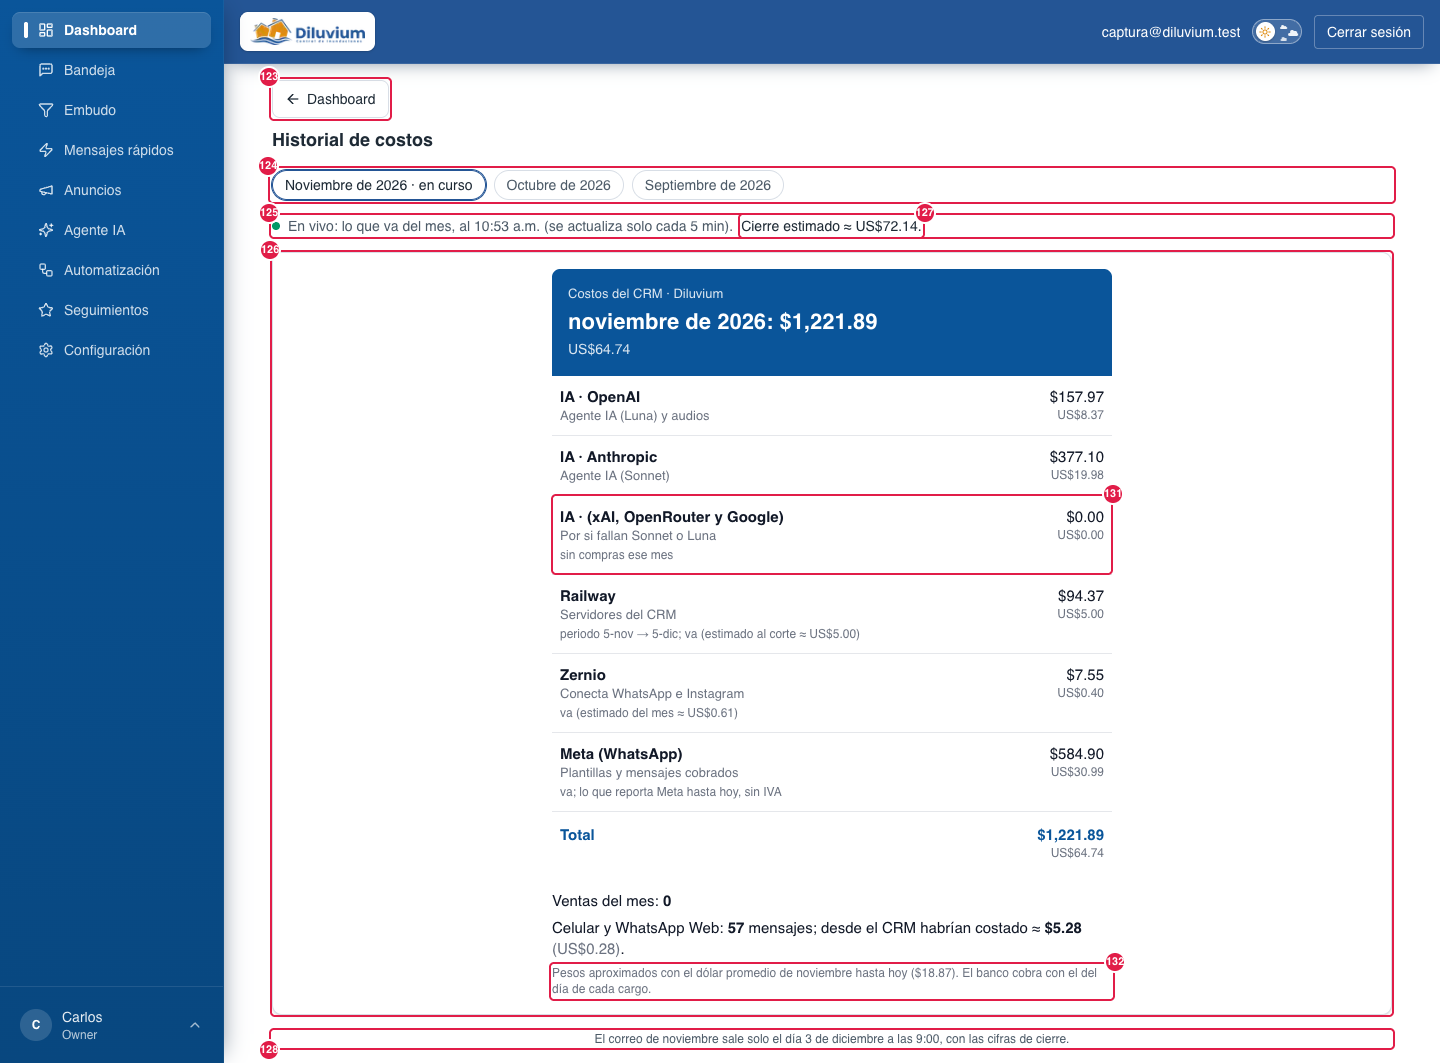
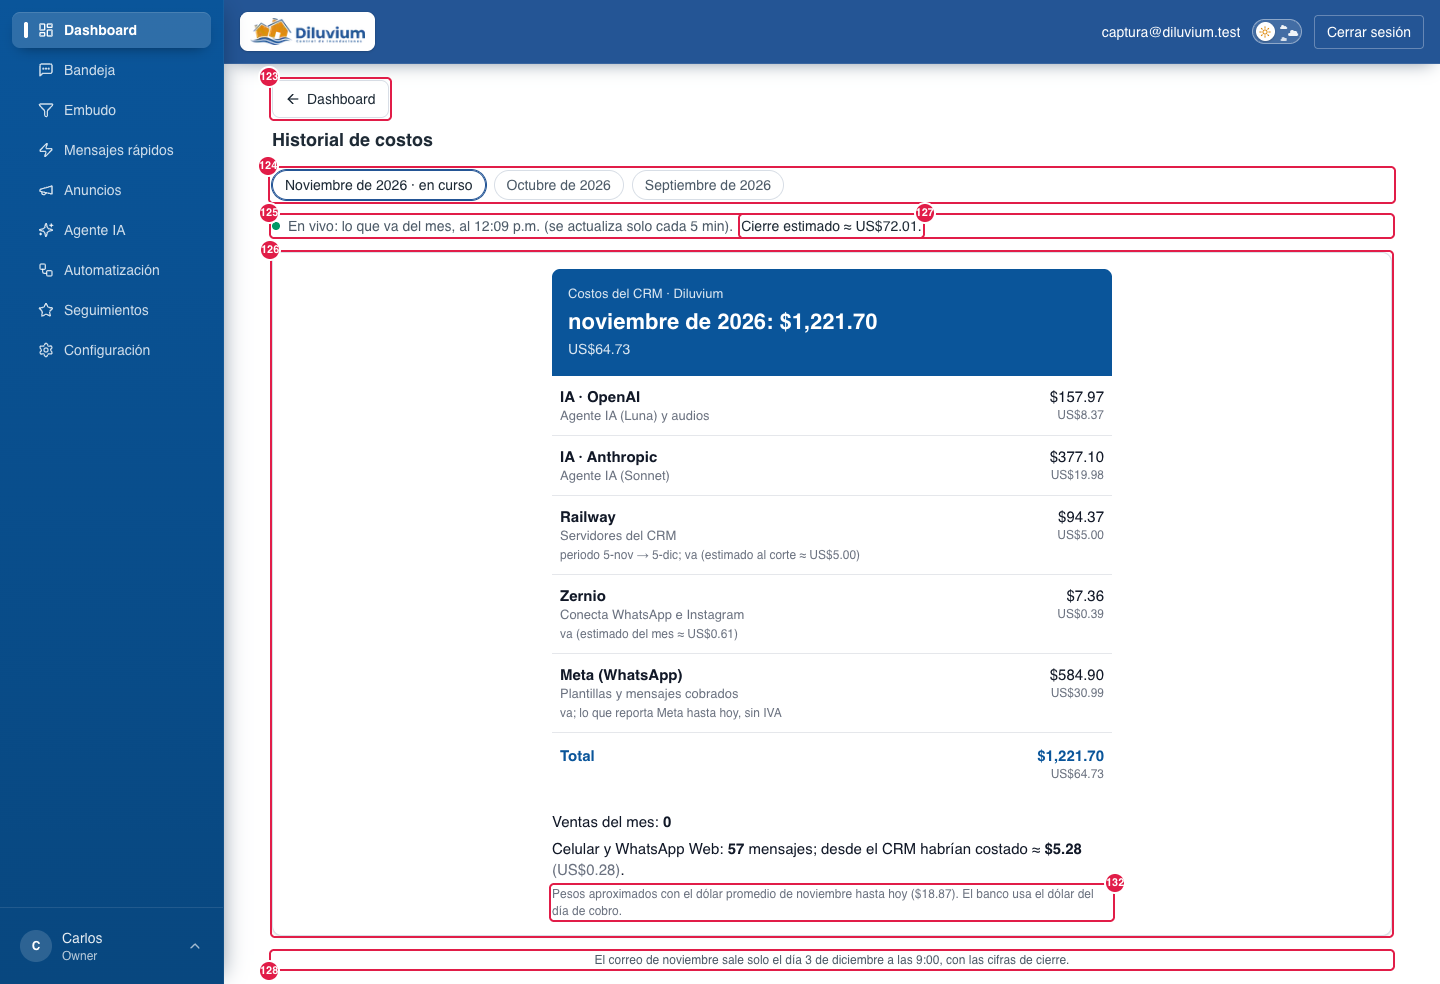
fix(costos): renglón de los modelos de reserva solo con nombre y monto, solo el mes de la compra; frase del dólar
Ajustes del dueño (27-nov-2026) antes de main:
- «IA · (xAI, OpenRouter y Google)» sin texto debajo ni nota, y solo sale el mes en que se compró crédito (en los
  demás meses no aparece: lo que se usa de esos créditos ya se pagó).
- Nota del dólar: «Pesos aproximados con el dólar promedio de octubre ($18.40). El banco usa el dólar del día de
  cobro.» (en el mes en curso, «promedio de … hasta hoy»).
- El correo ya no pinta la línea de «para qué» cuando viene vacía.
Mapa 3.1.4 (131, 132), capturas 01i rehecha y 01k nueva (mes cerrado con compra, datos de ejemplo); docs/costos.md.
3,081 pruebas OK (con base y Redis), typecheck y lint limpios.

diff --git a/lib/costos/mes.ts b/lib/costos/mes.ts
@@ -87,29 +87,28 @@ export const IA_PARA_QUE: Record<string, string> = {
 };
 
 // Modelos de reserva (decisión del dueño 27-nov-2026): xAI, OpenRouter y Google se pagan por adelantado (recargas
-// registradas en el Dashboard, ai_credit_topups) y casi no se usan. Van en UN renglón con lo que se COMPRÓ de crédito
-// en el mes; lo que después se use de esos créditos ya no vuelve a sumar (ya se pagó). Anthropic y OpenAI siguen por
-// lo que se usó cada mes.
+// registradas en el Dashboard, ai_credit_topups) y casi no se usan. Van en UN renglón, solo con su nombre y su monto
+// (sin texto debajo ni nota), con lo que se COMPRÓ de crédito en el mes, y solo salen el mes en que se compró: lo que
+// después se use de esos créditos ya no vuelve a sumar (ya se pagó). Anthropic y OpenAI siguen por lo que se usó.
 export const IA_RESERVA = ["xai", "openrouter", "google"];
 export type CompraIa = { provider: string; amountUsd: number; toppedUpOn: string };
-export const RESERVA_RENGLON = { servicio: "IA · (xAI, OpenRouter y Google)", paraQue: "Por si fallan Sonnet o Luna" };
-// Por debajo de esto, lo usado de los créditos de reserva se considera «casi sin uso».
-const RESERVA_CASI_SIN_USO_USD = 1;
+export const RESERVA_SERVICIO = "IA · (xAI, OpenRouter y Google)";
 
-// PURO: el renglón de los modelos de reserva. `usoUsd` = lo usado de esos créditos desde que empezó el mes (solo para
-// la nota; no suma).
-export function renglonReserva(compras: readonly CompraIa[], mes: Mes, usoUsd: number): Renglon {
+// PURO: lo que se compró de crédito de los modelos de reserva en el mes.
+export function comprasReservaUsd(compras: readonly CompraIa[], mes: Mes): number {
   const delMes = compras.filter((c) => IA_RESERVA.includes(c.provider) && c.toppedUpOn >= mes.desde && c.toppedUpOn <= mes.hasta);
-  const usd = round2(delMes.reduce((s, c) => s + c.amountUsd, 0));
-  if (usd === 0) return { ...RESERVA_RENGLON, usd: 0, nota: "sin compras ese mes" };
-  const dias = [...new Set(delMes.map((c) => c.toppedUpOn))].sort().map((d) => shortDate(new Date(`${d}T12:00:00Z`)));
-  const fechas = dias.length === 1 ? dias[0] : `${dias.slice(0, -1).join(", ")} y ${dias[dias.length - 1]}`;
-  return { ...RESERVA_RENGLON, usd, nota: `créditos comprados el ${fechas}${usoUsd < RESERVA_CASI_SIN_USO_USD ? "; casi sin uso" : ""}` };
+  return round2(delMes.reduce((s, c) => s + c.amountUsd, 0));
+}
+
+// PURO: el renglón de los modelos de reserva; null = ese mes no se compró crédito (no sale).
+export function renglonReserva(compras: readonly CompraIa[], mes: Mes): Renglon | null {
+  const usd = comprasReservaUsd(compras, mes);
+  return usd === 0 ? null : { servicio: RESERVA_SERVICIO, paraQue: "", usd, nota: null };
 }
 
 // Por proveedor: lo que COBRÓ según su reporte (ai_provider_billing, incluye pruebas). Sin lectura del
 // proveedor se usa lo que registró el CRM y la nota lo dice. Los modelos de reserva van en un solo renglón con lo
-// que se compró en el mes (renglonReserva).
+// que se compró en el mes, solo si se compró (renglonReserva).
 export function renglonesIa(input: {
   billing: readonly BillingSnapshot[];
   crmDays: readonly DaySpend[];
@@ -118,16 +117,6 @@ export function renglonesIa(input: {
 }): { renglones: Renglon[]; avisos: string[] } {
   const { mes } = input;
   const snaps = new Map(input.billing.filter((b) => b.fetchedAt).map((b) => [b.provider, b]));
-  // Lo usado de los créditos de reserva desde que empezó el mes (solo para la nota «casi sin uso»).
-  let usoReserva = 0;
-  for (const p of IA_RESERVA) {
-    const snap = snaps.get(p);
-    if (snap) {
-      for (const [day, v] of Object.entries(snap.days)) if (day >= mes.desde) usoReserva += v.todo;
-    } else {
-      for (const d of input.crmDays) if (d.provider === p && d.day >= mes.desde) usoReserva += d.usd;
-    }
-  }
   const otros = [...new Set([...snaps.keys(), ...input.crmDays.map((d) => d.provider)])]
     .filter((p) => !IA_FIJOS.includes(p) && !IA_RESERVA.includes(p))
     .sort();
@@ -157,7 +146,8 @@ export function renglonesIa(input: {
   for (const p of IA_RESERVA) {
     if (input.billing.find((b) => b.provider === p)?.lastError) avisos.push(`${providerLabel(p)}: la última lectura del cobro falló; revisa el Dashboard.`);
   }
-  renglones.push(renglonReserva(input.compras, mes, usoReserva));
+  const reserva = renglonReserva(input.compras, mes);
+  if (reserva) renglones.push(reserva);
   return { renglones, avisos };
 }
 

diff --git a/lib/costos/historial.test.ts b/lib/costos/historial.test.ts
@@ -28,7 +28,7 @@ describe("renglonesMesCerrado", () => {
     const iaSep = [
       { servicio: "IA · Anthropic", paraQue: "Agente IA (Sonnet)", usd: 9.18, nota: null },
       { servicio: "IA · OpenAI", paraQue: "Agente IA (Luna) y audios", usd: 0.85, nota: null },
-      { servicio: "IA · (xAI, OpenRouter y Google)", paraQue: "Por si fallan Sonnet o Luna", usd: 15.67, nota: "créditos comprados el 25-sep; casi sin uso" },
+      { servicio: "IA · (xAI, OpenRouter y Google)", paraQue: "", usd: 15.67, nota: null },
     ];
     const r = renglonesMesCerrado({ month: "2026-09", iaUsd: 25.7, metaUsd: 0, railwayUsd: 0, zernioUsd: 0 }, iaSep);
     expect(r.ia.map((x) => x.usd)).toEqual([9.18, 0.85, 15.67]);
@@ -79,12 +79,11 @@ describe("renglonesMesEnCurso", () => {
 
   const NOV = mesDe("2026-11");
 
-  it("lo que va de cada servicio (Railway nunca menos del plan); la IA sin proveedores en cero y la reserva por compras", () => {
+  it("lo que va de cada servicio (Railway nunca menos del plan); la IA sin proveedores en cero ni reserva sin compras", () => {
     const r = renglonesMesEnCurso({ spend, railway, zernio, meta, compras: [], mes: NOV });
     expect(r.ia.map((x) => [x.servicio, x.usd])).toEqual([
       ["IA · Anthropic", 15.2],
       ["IA · OpenAI", 6.3],
-      ["IA · (xAI, OpenRouter y Google)", 0],
     ]);
     expect(r.railway.usd).toBe(5);
     expect(r.railway.nota).toMatch(/^periodo 5-nov → 5-dic; va \(estimado al corte ≈ US\$/);
@@ -93,7 +92,7 @@ describe("renglonesMesEnCurso", () => {
   });
   it("sin lectura de un servicio: sin dato (no cuenta como cero)", () => {
     const r = renglonesMesEnCurso({ spend: null, railway: null, zernio: null, meta: null, compras: [], mes: NOV });
-    expect(r.ia).toEqual([{ servicio: "IA · (xAI, OpenRouter y Google)", paraQue: "Por si fallan Sonnet o Luna", usd: 0, nota: "sin compras ese mes" }]);
+    expect(r.ia).toEqual([]);
     expect([r.railway.usd, r.zernio.usd, r.meta.usd]).toEqual([null, null, null]);
   });
   it("una compra de crédito de reserva en el mes suma aunque se haya usado poco; lo usado no suma", () => {
@@ -102,7 +101,7 @@ describe("renglonesMesEnCurso", () => {
     expect(r.ia.map((x) => [x.servicio, x.usd, x.nota])).toEqual([
       ["IA · Anthropic", 15.2, null],
       ["IA · OpenAI", 6.3, null],
-      ["IA · (xAI, OpenRouter y Google)", 5, "créditos comprados el 10-nov; casi sin uso"],
+      ["IA · (xAI, OpenRouter y Google)", 5, null],
     ]);
   });
 });

diff --git a/lib/costos/mes.test.ts b/lib/costos/mes.test.ts
@@ -40,7 +40,6 @@ describe("renglonesIa", () => {
       // El CRM calculó de más en Anthropic: no se usa porque hay reporte del proveedor.
       crmDays: [
         { day: "2026-10-01", provider: "anthropic", usd: 5 },
-        // Uso de reserva: 0.001 + 0.5 + 0.25 < US$1 → «casi sin uso».
         { day: "2026-10-02", provider: "google", usd: 0.25 },
       ],
       compras: [
@@ -54,26 +53,15 @@ describe("renglonesIa", () => {
     expect(renglones).toEqual([
       { servicio: "IA · Anthropic", paraQue: "Agente IA (Sonnet)", usd: 3.25, nota: null },
       { servicio: "IA · OpenAI", paraQue: "Agente IA (Luna) y audios", usd: 0, nota: null },
-      { servicio: "IA · (xAI, OpenRouter y Google)", paraQue: "Por si fallan Sonnet o Luna", usd: 10.67, nota: "créditos comprados el 25-oct; casi sin uso" },
+      { servicio: "IA · (xAI, OpenRouter y Google)", paraQue: "", usd: 10.67, nota: null },
     ]);
     expect(avisos).toEqual([]);
   });
 
-  it("modelos de reserva: sin compras en el mes sale en 0; varias fechas; sin «casi sin uso» si se usó US$1 o más", () => {
-    const base = { mes: OCT, billing: [], crmDays: [] };
-    expect(renglonesIa({ ...base, compras: [] }).renglones.at(-1)).toEqual({
-      servicio: "IA · (xAI, OpenRouter y Google)",
-      paraQue: "Por si fallan Sonnet o Luna",
-      usd: 0,
-      nota: "sin compras ese mes",
-    });
-    const compras = [
-      { provider: "openrouter", amountUsd: 5, toppedUpOn: "2026-10-03" },
-      { provider: "xai", amountUsd: 5, toppedUpOn: "2026-10-20" },
-      { provider: "google", amountUsd: 2, toppedUpOn: "2026-10-20" },
-    ];
-    const usado = renglonesIa({ ...base, billing: [snap("openrouter", { "2026-11-02": { todo: 1.2 } })], compras }).renglones.at(-1);
-    expect(usado).toMatchObject({ usd: 12, nota: "créditos comprados el 3-oct y 20-oct" });
+  it("modelos de reserva: el mes sin compras de crédito no sale el renglón (aunque se hayan usado)", () => {
+    const billing = [snap("openrouter", { "2026-10-12": { todo: 1.2 } })];
+    const sinCompras = renglonesIa({ mes: OCT, billing, crmDays: [], compras: [{ provider: "xai", amountUsd: 5, toppedUpOn: "2026-09-25" }] });
+    expect(sinCompras.renglones.map((r) => r.servicio)).toEqual(["IA · Anthropic", "IA · OpenAI"]);
   });
 
   it("avisa si la última lectura es de antes del cierre o falló", () => {

diff --git a/lib/costos/correo.ts b/lib/costos/correo.ts
@@ -28,7 +28,7 @@ function montos(usd: number | null, mxn: number | null): { principal: string; se
 export function notaTipoCambio(r: Pick<ReporteCostos, "tipoCambio" | "mes" | "enCurso">): string | null {
   if (!r.tipoCambio) return null;
   const mes = r.mes.nombre.replace(/ de \d{4}$/, "");
-  return `Pesos aproximados con el dólar promedio de ${mes}${r.enCurso ? " hasta hoy" : ""} (${pesos(r.tipoCambio.mxnPorUsd)}). El banco cobra con el del día de cada cargo.`;
+  return `Pesos aproximados con el dólar promedio de ${mes}${r.enCurso ? " hasta hoy" : ""} (${pesos(r.tipoCambio.mxnPorUsd)}). El banco usa el dólar del día de cobro.`;
 }
 
 export function asuntoCorreo(r: ReporteCostos): string {
@@ -42,7 +42,7 @@ export function htmlCorreo(r: ReporteCostos): string {
     .map((x) => {
       const m = montos(x.usd, x.mxn);
       return `<tr>
-  <td style="${celda}"><div style="font-weight:bold;color:#111827;">${esc(x.servicio)}</div><div style="color:${GRIS};font-size:13px;">${esc(x.paraQue)}</div>${
+  <td style="${celda}"><div style="font-weight:bold;color:#111827;">${esc(x.servicio)}</div>${x.paraQue ? `<div style="color:${GRIS};font-size:13px;">${esc(x.paraQue)}</div>` : ""}${
     x.nota ? `<div style="color:${GRIS};font-size:12px;margin-top:2px;">${esc(x.nota)}</div>` : ""
   }</td>
   <td style="${celda}text-align:right;white-space:nowrap;"><div style="color:${x.usd === null ? GRIS : "#111827"};">${m.principal}</div>${
@@ -78,7 +78,7 @@ export function htmlCorreo(r: ReporteCostos): string {
     }.${c.cobradosMeta > 0 ? ` <span style="color:${NARANJA};font-weight:bold;">Meta cobró ${c.cobradosMeta.toLocaleString("es-MX")} de ellos.</span>` : ""}</p>`;
   }
 
-  // Texto del dueño (27-nov-2026): los pesos son aproximados porque el banco cobra con el dólar del día de cada cargo.
+  // Texto del dueño (27-nov-2026): los pesos son aproximados porque el banco usa el dólar del día de cada cobro.
   const lineaTc = notaTipoCambio(r);
   const tipoCambio = lineaTc ? `<p style="margin:6px 0 0;color:${GRIS};font-size:12px;">${esc(lineaTc)}</p>` : "";
 

diff --git a/lib/costos/correo.test.ts b/lib/costos/correo.test.ts
@@ -37,7 +37,7 @@ describe("correo de costos", () => {
     expect(html).toContain("(sin Railway)");
     expect(html).toContain("Ventas del mes: <b>38</b>");
     expect(html).toContain("Costo del CRM por venta: <b>$600.98</b>");
-    expect(html).toContain("Pesos aproximados con el dólar promedio de octubre ($18.50). El banco cobra con el del día de cada cargo.");
+    expect(html).toContain("Pesos aproximados con el dólar promedio de octubre ($18.50). El banco usa el dólar del día de cobro.");
     expect(html).toContain("Diluvium &lt;MX&gt;");
     expect(html).not.toContain("Diluvium <MX>");
     expect(html).not.toContain("Correo automático del CRM");
@@ -73,10 +73,15 @@ describe("correo de costos", () => {
   });
 
   it("nota del tipo de cambio (texto del dueño): mes cerrado, mes en curso «hasta hoy» y sin tipo de cambio", () => {
-    expect(notaTipoCambio(base)).toBe("Pesos aproximados con el dólar promedio de octubre ($18.50). El banco cobra con el del día de cada cargo.");
+    expect(notaTipoCambio(base)).toBe("Pesos aproximados con el dólar promedio de octubre ($18.50). El banco usa el dólar del día de cobro.");
     expect(notaTipoCambio({ ...base, mes: mesDe("2026-11"), enCurso: true })).toBe(
-      "Pesos aproximados con el dólar promedio de noviembre hasta hoy ($18.50). El banco cobra con el del día de cada cargo.",
+      "Pesos aproximados con el dólar promedio de noviembre hasta hoy ($18.50). El banco usa el dólar del día de cobro.",
     );
     expect(notaTipoCambio({ ...base, tipoCambio: null })).toBeNull();
+  });
+  it("un renglón sin «para qué» (modelos de reserva) no pinta esa línea", () => {
+    const html = htmlCorreo({ ...base, renglones: [{ servicio: "IA · (xAI, OpenRouter y Google)", paraQue: "", usd: 15.67, nota: null, mxn: 269.74 }] });
+    expect(html).toContain("IA · (xAI, OpenRouter y Google)");
+    expect(html).not.toContain('font-size:13px;"></div>');
   });
 });

diff --git a/lib/dashboard/costo-crm.ts b/lib/dashboard/costo-crm.ts
@@ -12,7 +12,7 @@ import type { db as appDb } from "@/lib/db";
 import { crmCostMonths } from "@/lib/db/schema";
 import { addDays, monthStartUtc, utcDay } from "@/lib/ai/billing/days";
 import { cargarComprasReserva } from "@/lib/costos/compras-reserva";
-import { type CompraIa, IA_RESERVA, mesDe, renglonReserva } from "@/lib/costos/mes";
+import { type CompraIa, IA_RESERVA, comprasReservaUsd, mesDe } from "@/lib/costos/mes";
 import { type AiSpendSummary, loadBillingSnapshots, loadTopupTotals, spendByDay } from "./ai-spend";
 import { buildSpendByDay, firstDay, projectMonth } from "./ai-spend-history";
 import type { MetaWhatsappSummary } from "./meta-whatsapp";
@@ -82,7 +82,7 @@ export function resumirCostoCrm(input: {
   railway: RailwaySummary | null;
   zernio: ZernioSummary | null;
   guardados: readonly MesGuardado[];
-  // Compras de crédito de los modelos de reserva (lib/costos/mes.ts › renglonReserva): suman en el mes en que se
+  // Compras de crédito de los modelos de reserva (lib/costos/mes.ts › comprasReservaUsd): suman en el mes en que se
   // compran y lo que se usa de ellos ya no (27-nov-2026).
   compras?: readonly CompraIa[];
 }): CostoCrm {
@@ -94,7 +94,7 @@ export function resumirCostoCrm(input: {
   const ia: Tramo = input.spend
     ? (() => {
         const uso = input.spend.providers.filter((p) => !IA_RESERVA.includes(p.provider)).reduce((sum, p) => sum + p.monthUsd, 0);
-        const compras = renglonReserva(input.compras ?? [], mesDe(month), 0).usd ?? 0;
+        const compras = comprasReservaUsd(input.compras ?? [], mesDe(month));
         const va = uso + compras;
         return { va, cierre: Math.max(va, (input.iaProyeccionUsd ?? uso) + compras) };
       })()

diff --git a/lib/costos/historial.ts b/lib/costos/historial.ts
@@ -47,7 +47,8 @@ export function renglonesMesCerrado(fila: MesGuardado, iaPorProveedor: readonly 
 }
 
 // PURO: renglones del mes en curso con lo que VA de cada servicio (null = sin esa tarjeta: no hay lectura).
-// Los modelos de reserva van en un solo renglón con lo que se compró de crédito este mes (lib/costos/mes.ts).
+// Los modelos de reserva van en un solo renglón con lo que se compró de crédito este mes, solo si se compró
+// (lib/costos/mes.ts).
 export function renglonesMesEnCurso(input: {
   spend: AiSpendSummary | null;
   railway: RailwaySummary | null;
@@ -60,8 +61,8 @@ export function renglonesMesEnCurso(input: {
   const ia: Renglon[] = providers
     .filter((p) => !IA_RESERVA.includes(p.provider) && (IA_FIJOS.includes(p.provider) || Math.round(p.monthUsd * 100) !== 0))
     .map((p) => ({ servicio: `IA · ${p.label}`, paraQue: IA_PARA_QUE[p.provider] ?? "Agente IA", usd: round2(p.monthUsd), nota: null }));
-  const usoReserva = providers.filter((p) => IA_RESERVA.includes(p.provider)).reduce((s, p) => s + p.monthUsd, 0);
-  ia.push(renglonReserva(input.compras, input.mes, usoReserva));
+  const reserva = renglonReserva(input.compras, input.mes);
+  if (reserva) ia.push(reserva);
 
   const r = input.railway;
   let railway: Renglon = { ...BASE.railway, usd: null, nota: "sin lectura de Railway" };

diff --git a/lib/costos/cargar.int.test.ts b/lib/costos/cargar.int.test.ts
@@ -136,7 +136,6 @@ describe.skipIf(!TEST_DATABASE_URL)("reporte de costos (base real)", () => {
     expect(r.renglones.map((x) => [x.servicio, x.usd])).toEqual([
       ["IA · Anthropic", 0],
       ["IA · OpenAI", 0],
-      ["IA · (xAI, OpenRouter y Google)", 0],
       ["Railway", null],
       ["Zernio", null],
       ["Meta (WhatsApp)", 0],

diff --git a/docs/mapa-crm/3.1-dashboard.md b/docs/mapa-crm/3.1-dashboard.md
@@ -201,6 +201,10 @@ verificados con las facturas; el 26-nov-2026 se volvieron a cotejar al centavo c
 
 ![Historial de costos](01i-historial-costos.png)
 
+Un mes cerrado en el que se compró crédito de los modelos de reserva (131), con datos de ejemplo:
+
+![Historial de costos: mes cerrado](01k-historial-costos-mes-cerrado.png)
+
 | # | Nombre oficial | Qué hace | Quién lo ve |
 |---|---|---|---|
 | 123 | **← Dashboard** (botón) | Regresa al Dashboard. En el celular solo se ve la flecha. | Todos |
@@ -209,8 +213,8 @@ verificados con las facturas; el 26-nov-2026 se volvieron a cotejar al centavo c
 | 126 | **El correo** | El correo del día 3 tal como llega, del mes elegido. En el mes en curso, Railway y Zernio dicen su factura estimada en la nota. | Todos |
 | 127 | **Cierre estimado** | Solo en el mes en curso: a cuánto cerraría el mes si sigue al ritmo de estos días (igual que en 116). | Todos |
 | 128 | **Nota de abajo** | En el mes en curso, cuándo sale su correo (el día 3 a las 9:00); en un mes cerrado, que son sus cifras finales. | Todos |
-| 131 | **IA · (xAI, OpenRouter y Google)** (renglón del correo) | Los modelos de reserva («Por si fallan Sonnet o Luna») en un solo renglón: cuenta **lo que se compró de crédito en el mes** (las recargas que se registran en Gasto de IA), no lo que se usa de ellos, porque ya se pagó al comprarlo. La nota dice cuándo se compró («créditos comprados el 25-sep; casi sin uso») o **«sin compras ese mes»**. Septiembre de 2026: US$15.67 (xAI 5, OpenRouter 5, Google 5.67). Desde el 27-nov-2026 (decisión del dueño). | Todos |
-| 132 | **Nota del dólar** (abajo del correo) | **«Pesos aproximados con el dólar promedio de (mes) ($X). El banco cobra con el del día de cada cargo.»** El promedio es el del Diario Oficial; en el mes en curso dice «promedio de (mes) hasta hoy». Lo exacto en pesos está en el estado de cuenta de la tarjeta. Texto del dueño, 27-nov-2026 (antes: «Dólar a $X (promedio de …, Diario Oficial)»). | Todos |
+| 131 | **IA · (xAI, OpenRouter y Google)** (renglón del correo) | Los modelos de reserva en un solo renglón, solo con su nombre y su monto (sin texto debajo ni nota): **lo que se compró de crédito en ese mes** (las recargas que se registran en Gasto de IA). **Solo sale el mes en que se compró**; en los demás meses no aparece, porque lo que se usa de esos créditos ya se pagó al comprarlo. Septiembre de 2026: US$15.67 (xAI 5, OpenRouter 5, Google 5.67). Desde el 27-nov-2026 (decisión del dueño). | Todos |
+| 132 | **Nota del dólar** (abajo del correo) | **«Pesos aproximados con el dólar promedio de (mes) ($X). El banco usa el dólar del día de cobro.»** El promedio es el del Diario Oficial; en el mes en curso dice «promedio de (mes) hasta hoy». Lo exacto en pesos está en el estado de cuenta de la tarjeta. Texto del dueño, 27-nov-2026 (antes: «Dólar a $X (promedio de …, Diario Oficial)»). | Todos |
 
 **Lo cambias tú desde la pantalla:** solo el mes.
 

diff --git a/docs/costos.md b/docs/costos.md
@@ -9,7 +9,7 @@ el **día 3 de cada mes**, sin pedirlo. Base: el informe del primer mes (Notion 
 |---|---|---|
 | IA · Anthropic | Agente IA (Sonnet) | Lo que **cobró** Anthropic (`ai_provider_billing`, lo lee el worker cada 5 min) |
 | IA · OpenAI | Agente IA (Luna) y notas de voz | Lo que **cobró** OpenAI (igual) |
-| IA · (xAI, OpenRouter y Google) | Modelos de reserva («Por si fallan Sonnet o Luna») | Un solo renglón con lo que se **compró** de crédito en el mes (recargas registradas en Gasto de IA, `ai_credit_topups`). Lo que después se usa de esos créditos ya no suma: ya se pagó (decisión del dueño 27-nov-2026). Sin compras: «sin compras ese mes» |
+| IA · (xAI, OpenRouter y Google) | Modelos de reserva | Un solo renglón, sin texto debajo ni nota, con lo que se **compró** de crédito en el mes (recargas registradas en Gasto de IA, `ai_credit_topups`). **Solo sale el mes en que se compró**; lo que después se usa de esos créditos ya no suma: ya se pagó (decisión del dueño 27-nov-2026) |
 | Railway | Servidores del CRM | `railway_billing` (docs/railway-costos.md). Su periodo va **del 5 al 5**: el reporte de un mes lleva el periodo que empieza ese mes, y como el día 3 aún no cierra sale la **factura estimada** (plan + uso proyectado al corte) |
 | Zernio | Conecta WhatsApp e Instagram | El mes anterior de Zernio (`zernio_billing`, docs/zernio-costos.md); el día 3 ya está cerrado |
 | Meta (WhatsApp) | Plantillas y mensajes cobrados | Lo que **reporta Meta** del mes (días UTC, sin IVA; docs/meta-whatsapp.md). Sin esa lectura, el **estimado del CRM** (abajo) |
@@ -23,8 +23,8 @@ el total dice que va sin él.
 158, sin llave ni registro; la de Banxico pide token): `lib/costos/tipo-cambio.ts`. Los pesos son **aproximados**: el
 banco cobra cada cargo con el dólar de ese día (y puede sumar comisión), y el dólar se movió mucho (promedio de
 septiembre 17.21, octubre 18.40, 19.70 el 26-nov-2026). Por eso la línea de abajo dice, con el texto del dueño
-(27-nov-2026): **«Pesos aproximados con el dólar promedio de octubre ($18.40). El banco cobra con el del día de cada
-cargo.»** (en el mes en curso: «promedio de noviembre hasta hoy»). Lo exacto en pesos solo está en el estado de cuenta.
+(27-nov-2026): **«Pesos aproximados con el dólar promedio de octubre ($18.40). El banco usa el dólar del día de
+cobro.»** (en el mes en curso: «promedio de noviembre hasta hoy»). Lo exacto en pesos solo está en el estado de cuenta.
 Si el Diario Oficial no responde, el correo sale igual, solo en dólares, con un aviso.
 
 **Nota de una sola vez:** `NOTAS_DEL_MES` en `lib/costos/mes.ts`. Octubre de 2026 (correo del 3-nov) explica que es el
